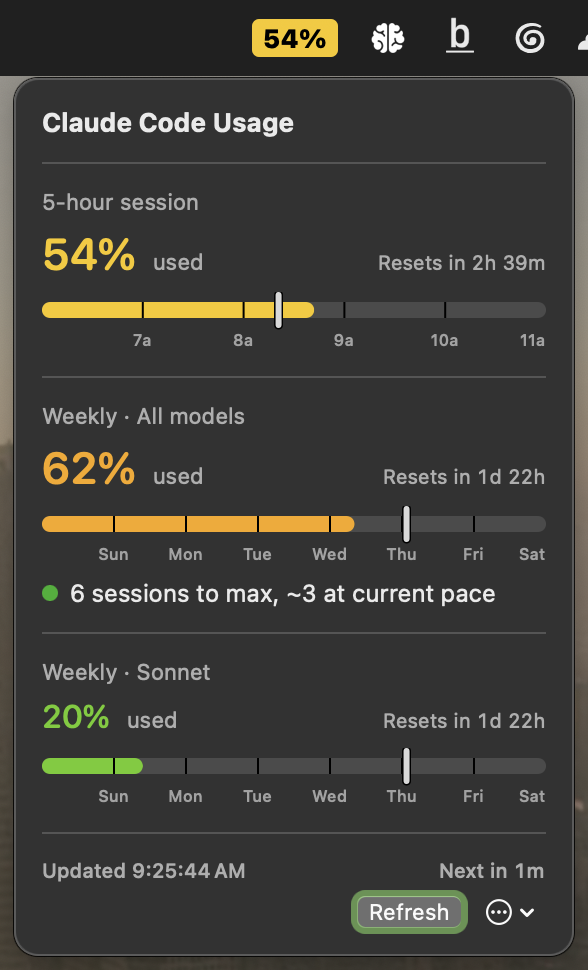
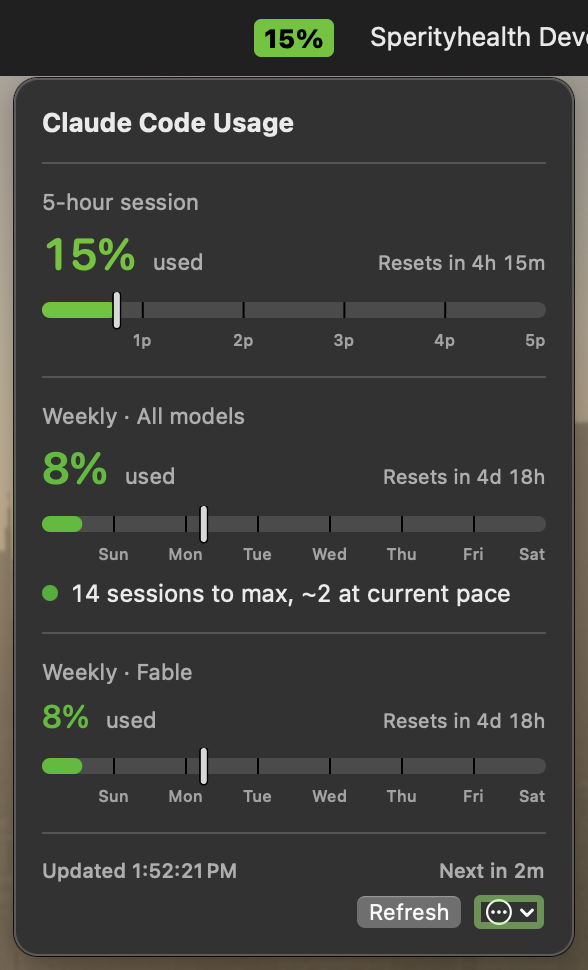
feat: Weekly · Fable meter sourced from the limits[] array
Add a per-model Fable weekly meter that renders the same way as the
Sonnet/Opus sections. The usage API no longer populates seven_day_opus/
seven_day_sonnet (both null); per-model weekly usage now lives in the
response's limits[] array as weekly_scoped entries carrying a
scope.model.display_name. Verified against the live account: Fable is
returned there at 8% while the seven_day_* model keys are null.

- UsageAPI: model the limits[] array (UsageLimit + nested Scope/Model)
  and add UsageResponse.scopedWeeklyWindow(modelDisplayName:), which
  surfaces the matching weekly_scoped entry as a synthetic UsageWindow
  so it flows through freshUtilization, the gauge, and the CLI report
  unchanged.
- UsageStore.sevenDayFable wires that helper to "Fable"; PopoverView
  renders a "Weekly · Fable" section (hidden when nil, like Sonnet/Opus).
- Cache: round-trip limits[] so the meter survives a cold launch.
- CLI: add seven_day_fable to the --json Report.
- Tests: LimitsTests covers the derivation (Fable match, ignoring
  session/weekly_all rows, unknown-model and missing-limits → nil, the
  freshness guard, and cache round-trip); update CLIIntegrationTests
  fixtures for the new limits parameter.
- Docs: FEATURE_MAP.md, CLAUDE.md, README.md; refresh Sonoma popover
  screenshots to show the Fable meter.

Claude-Session: https://claude.ai/code/session_01EoR4udmJi1QEKempqeJJAE

diff --git a/Tests/ClaudeUsageTests/LimitsTests.swift b/Tests/ClaudeUsageTests/LimitsTests.swift
@@ -1,0 +1,101 @@
+import XCTest
+@testable import ClaudeUsage
+
+/// Tests for the `limits[]` scoped-model derivation that powers the Fable
+/// weekly meter. The API exposes per-model weekly usage only through
+/// `limits[]` (`kind == "weekly_scoped"`, with `scope.model.display_name`) —
+/// the legacy `seven_day_sonnet`/`seven_day_opus` keys come back null — so
+/// `UsageResponse.scopedWeeklyWindow(modelDisplayName:)` reads it from there.
+/// Deterministic and headless: pure decode + derivation over fixed JSON.
+final class LimitsTests: XCTestCase {
+
+    /// Real-shaped response (trimmed) as observed 2026-07-07: scoped-model usage
+    /// lives in `limits[]`, the `seven_day_*` model keys are null, and a Fable
+    /// weekly_scoped entry sits at 8%.
+    private let fableJSON = """
+    {
+        "five_hour": { "utilization": 11, "resets_at": "2026-07-08T01:10:00.395969+00:00" },
+        "seven_day": { "utilization": 7, "resets_at": "2026-07-12T15:00:00.395995+00:00" },
+        "seven_day_opus": null,
+        "seven_day_sonnet": null,
+        "limits": [
+            {
+                "kind": "session",
+                "group": "session",
+                "percent": 11,
+                "resets_at": "2026-07-08T01:10:00.395969+00:00",
+                "scope": null,
+                "is_active": true
+            },
+            {
+                "kind": "weekly_all",
+                "group": "weekly",
+                "percent": 7,
+                "resets_at": "2026-07-12T15:00:00.395995+00:00",
+                "scope": null,
+                "is_active": false
+            },
+            {
+                "kind": "weekly_scoped",
+                "group": "weekly",
+                "percent": 8,
+                "resets_at": "2026-07-12T15:00:00.396269+00:00",
+                "scope": { "model": { "id": null, "display_name": "Fable" }, "surface": null },
+                "is_active": false
+            }
+        ]
+    }
+    """
+
+    private func decode(_ json: String) throws -> UsageResponse {
+        try JSONDecoder().decode(UsageResponse.self, from: Data(json.utf8))
+    }
+
+    func testFableWindowDerivedFromScopedLimit() throws {
+        let resp = try decode(fableJSON)
+        let fable = resp.scopedWeeklyWindow(modelDisplayName: "Fable")
+        XCTAssertEqual(fable?.utilization, 8)
+        XCTAssertEqual(fable?.resets_at, "2026-07-12T15:00:00.396269+00:00")
+    }
+
+    func testScopedLookupIgnoresSessionAndWeeklyAll() throws {
+        // "Fable" only matches the weekly_scoped entry (percent 8), never the
+        // session (11) or weekly_all (7) rows, which carry no model scope.
+        let resp = try decode(fableJSON)
+        XCTAssertEqual(resp.scopedWeeklyWindow(modelDisplayName: "Fable")?.utilization, 8)
+    }
+
+    func testUnknownModelReturnsNil() throws {
+        let resp = try decode(fableJSON)
+        XCTAssertNil(resp.scopedWeeklyWindow(modelDisplayName: "Sonnet"))
+    }
+
+    func testMissingLimitsArrayReturnsNil() throws {
+        let resp = try decode("""
+        { "five_hour": { "utilization": 5, "resets_at": "2026-07-08T01:10:00Z" } }
+        """)
+        XCTAssertNil(resp.limits)
+        XCTAssertNil(resp.scopedWeeklyWindow(modelDisplayName: "Fable"))
+    }
+
+    /// The derived window flows through `freshUtilization`, so a future
+    /// `resets_at` yields the percent and a past one is suppressed as stale —
+    /// same guard the legacy per-model windows use.
+    func testDerivedWindowRespectsFreshnessGuard() throws {
+        let resp = try decode(fableJSON)
+        let fable = resp.scopedWeeklyWindow(modelDisplayName: "Fable")
+        let before = ISO8601DateFormatter().date(from: "2026-07-01T00:00:00Z")!
+        let after = ISO8601DateFormatter().date(from: "2026-08-01T00:00:00Z")!
+        XCTAssertEqual(fable?.freshUtilization(now: before), 8)
+        XCTAssertNil(fable?.freshUtilization(now: after))
+    }
+
+    /// The cache must round-trip `limits[]` so the Fable meter survives a cold
+    /// launch (instant-on from disk) instead of vanishing until the first fetch.
+    func testLimitsSurviveCacheRoundTrip() throws {
+        let resp = try decode(fableJSON)
+        let encoded = try JSONEncoder().encode(resp)
+        let restored = try JSONDecoder().decode(UsageResponse.self, from: encoded)
+        XCTAssertEqual(restored.scopedWeeklyWindow(modelDisplayName: "Fable")?.utilization, 8)
+    }
+}

diff --git a/Tests/ClaudeUsageTests/CLIIntegrationTests.swift b/Tests/ClaudeUsageTests/CLIIntegrationTests.swift
@@ -94,7 +94,8 @@ final class CLIWindowReportTests: XCTestCase {
             seven_day: nil,
             seven_day_opus: nil,
             seven_day_sonnet: nil,
-            extra_usage: nil
+            extra_usage: nil,
+            limits: nil
         )
         let r = CLI.report(usage, fetchedAt: fixedNow, source: "api", error: nil, now: fixedNow)
         XCTAssertNil(r.five_hour)
@@ -112,7 +113,8 @@ final class CLIWindowReportTests: XCTestCase {
             seven_day: nil,
             seven_day_opus: nil,
             seven_day_sonnet: nil,
-            extra_usage: nil
+            extra_usage: nil,
+            limits: nil
         )
         let r = CLI.report(usage, fetchedAt: fixedNow, source: "api", error: nil, now: fixedNow)
         let wr = try! XCTUnwrap(r.five_hour)
@@ -138,7 +140,8 @@ final class CLIWindowReportTests: XCTestCase {
             seven_day: nil,
             seven_day_opus: nil,
             seven_day_sonnet: nil,
-            extra_usage: nil
+            extra_usage: nil,
+            limits: nil
         )
         let r = CLI.report(usage, fetchedAt: fixedNow, source: "cache", error: nil, now: fixedNow)
         let wr = try! XCTUnwrap(r.five_hour)
@@ -159,7 +162,8 @@ final class CLIWindowReportTests: XCTestCase {
             seven_day: nil,
             seven_day_opus: nil,
             seven_day_sonnet: nil,
-            extra_usage: nil
+            extra_usage: nil,
+            limits: nil
         )
         let r = CLI.report(usage, fetchedAt: fixedNow, source: "api", error: nil, now: fixedNow)
         let wr = try! XCTUnwrap(r.five_hour)
@@ -177,7 +181,8 @@ final class CLIWindowReportTests: XCTestCase {
             seven_day: nil,
             seven_day_opus: window, // plans that don't expose this return it empty
             seven_day_sonnet: nil,
-            extra_usage: nil
+            extra_usage: nil,
+            limits: nil
         )
         let r = CLI.report(usage, fetchedAt: fixedNow, source: "api", error: nil, now: fixedNow)
         XCTAssertNil(r.seven_day_opus, "Empty (nil util + nil resets_at) window should be omitted")
@@ -267,7 +272,8 @@ final class CLIReportIntegrationTests: XCTestCase {
             seven_day: nil,
             seven_day_opus: nil,
             seven_day_sonnet: nil,
-            extra_usage: nil
+            extra_usage: nil,
+            limits: nil
         )
         let report = CLI.report(
             usage,
@@ -288,7 +294,8 @@ final class CLIReportIntegrationTests: XCTestCase {
             seven_day: nil,
             seven_day_opus: nil,
             seven_day_sonnet: nil,
-            extra_usage: nil
+            extra_usage: nil,
+            limits: nil
         )
         let report = CLI.report(
             usage,
@@ -308,7 +315,8 @@ final class CLIReportIntegrationTests: XCTestCase {
             seven_day: nil,
             seven_day_opus: nil,
             seven_day_sonnet: nil,
-            extra_usage: nil
+            extra_usage: nil,
+            limits: nil
         )
         let slightlyFuture = fixedNow.addingTimeInterval(5)
         let report = CLI.report(
@@ -373,7 +381,8 @@ final class CLIReportIntegrationTests: XCTestCase {
             seven_day: nil,
             seven_day_opus: nil,
             seven_day_sonnet: nil,
-            extra_usage: nil
+            extra_usage: nil,
+            limits: nil
         )
         let report = CLI.report(
             usage,

diff --git a/Sources/ClaudeUsage/UsageAPI.swift b/Sources/ClaudeUsage/UsageAPI.swift
@@ -18,12 +18,46 @@ struct ExtraUsage: Decodable {
     let utilization: Double?
 }
 
+/// One entry of the response's `limits[]` array. The API surfaces per-model
+/// weekly limits here (`kind == "weekly_scoped"`, with `scope.model`), not via
+/// the older `seven_day_<model>` keys — those are now null. Codable so the
+/// cache can round-trip it; the synthesized encoder omits nil fields.
+struct UsageLimit: Codable {
+    let kind: String?
+    let group: String?
+    let percent: Double?
+    let resets_at: String?
+    let scope: Scope?
+
+    struct Scope: Codable {
+        let model: Model?
+
+        struct Model: Codable {
+            let id: String?
+            let display_name: String?
+        }
+    }
+}
+
 struct UsageResponse: Decodable {
     let five_hour: UsageWindow?
     let seven_day: UsageWindow?
     let seven_day_opus: UsageWindow?
     let seven_day_sonnet: UsageWindow?
     let extra_usage: ExtraUsage?
+    let limits: [UsageLimit]?
+
+    /// The weekly per-model limit for a given model display name (e.g.
+    /// "Fable"), surfaced as a `UsageWindow` so it renders through the same
+    /// path as the legacy `seven_day_*` windows. Sourced from `limits[]`, where
+    /// Anthropic moved scoped-model usage (the `seven_day_sonnet`/`_opus` keys
+    /// now come back null). Returns nil when no matching scoped limit is present.
+    func scopedWeeklyWindow(modelDisplayName: String) -> UsageWindow? {
+        guard let limit = limits?.first(where: {
+            $0.kind == "weekly_scoped" && $0.scope?.model?.display_name == modelDisplayName
+        }) else { return nil }
+        return UsageWindow(utilization: limit.percent, resets_at: limit.resets_at)
+    }
 }
 
 enum UsageAPIError: Error, LocalizedError {

diff --git a/Sources/ClaudeUsage/CLI.swift b/Sources/ClaudeUsage/CLI.swift
@@ -192,6 +192,7 @@ enum CLI {
         let seven_day: WindowReport?
         let seven_day_opus: WindowReport?
         let seven_day_sonnet: WindowReport?
+        let seven_day_fable: WindowReport?
         let extra_usage: ExtraUsageReport?
     }
 
@@ -218,6 +219,7 @@ enum CLI {
             seven_day: windowReport(usage.seven_day, duration: weeklyWindow, now: now),
             seven_day_opus: windowReport(usage.seven_day_opus, duration: weeklyWindow, now: now),
             seven_day_sonnet: windowReport(usage.seven_day_sonnet, duration: weeklyWindow, now: now),
+            seven_day_fable: windowReport(usage.scopedWeeklyWindow(modelDisplayName: "Fable"), duration: weeklyWindow, now: now),
             extra_usage: usage.extra_usage.map {
                 ExtraUsageReport(enabled: $0.is_enabled, used_percent: $0.utilization)
             }

diff --git a/Sources/ClaudeUsage/UsageCache.swift b/Sources/ClaudeUsage/UsageCache.swift
@@ -59,7 +59,7 @@ extension ExtraUsage: Encodable {
 }
 extension UsageResponse: Encodable {
     enum CodingKeys: String, CodingKey {
-        case five_hour, seven_day, seven_day_opus, seven_day_sonnet, extra_usage
+        case five_hour, seven_day, seven_day_opus, seven_day_sonnet, extra_usage, limits
     }
     func encode(to encoder: Encoder) throws {
         var c = encoder.container(keyedBy: CodingKeys.self)
@@ -68,5 +68,6 @@ extension UsageResponse: Encodable {
         try c.encodeIfPresent(seven_day_opus, forKey: .seven_day_opus)
         try c.encodeIfPresent(seven_day_sonnet, forKey: .seven_day_sonnet)
         try c.encodeIfPresent(extra_usage, forKey: .extra_usage)
+        try c.encodeIfPresent(limits, forKey: .limits)
     }
 }

diff --git a/Sources/ClaudeUsage/UsageStore.swift b/Sources/ClaudeUsage/UsageStore.swift
@@ -215,6 +215,12 @@ final class UsageStore: ObservableObject {
         lastSuccess?.response.seven_day_sonnet
     }
 
+    /// The weekly Fable window, derived from the response's `limits[]` scoped
+    /// entries (the API exposes Fable only there, not as a `seven_day_*` key).
+    var sevenDayFable: UsageWindow? {
+        lastSuccess?.response.scopedWeeklyWindow(modelDisplayName: "Fable")
+    }
+
     var lastUpdated: Date? {
         // The displayed numbers come from `lastSuccess`, so "Updated …" should
         // track the last successful fetch — not an error's timestamp.

diff --git a/Sources/ClaudeUsage/PopoverView.swift b/Sources/ClaudeUsage/PopoverView.swift
@@ -38,6 +38,10 @@ struct PopoverView: View {
                 Divider()
                 weeklyModelSection(title: "Weekly · Opus", window: opus)
             }
+            if let fable = store.sevenDayFable, fable.utilization != nil {
+                Divider()
+                weeklyModelSection(title: "Weekly · Fable", window: fable)
+            }
 
             Divider()
 

diff --git a/FEATURE_MAP.md b/FEATURE_MAP.md
@@ -1,6 +1,6 @@
 # ClaudeUsage — Feature Map
 
-ClaudeUsage is a single-target Swift Package macOS menubar app that displays how much of your Claude usage quota you've burned. It runs its own OAuth (authorization-code + PKCE) login against Anthropic, stores tokens in a dedicated `ClaudeUsage-credentials` Keychain item (isolated from Claude Code's own item so it can rotate tokens on a 429 without racing the `claude` CLI), polls `https://api.anthropic.com/api/oauth/usage` every 300 s, and renders the percentage used in the current 5-hour session in the menubar — color-coded along a green→red gradient. A SwiftUI popover breaks down the 5-hour, weekly, and per-model (Opus/Sonnet) windows with countdowns, time-elapsed ticks, and a weekly pacing analysis. A headless `--json` CLI mode serves the same data (cache-first) to other programs. An alert-only update check tells you when `main` has moved ahead of your build, and a single-instance lock keeps duplicate menubar items from stacking. The app stays out of the Dock (`LSUIElement` + `.accessory`) and is built/installed via stable self-signed code signing to keep its Keychain ACL sticky.
+ClaudeUsage is a single-target Swift Package macOS menubar app that displays how much of your Claude usage quota you've burned. It runs its own OAuth (authorization-code + PKCE) login against Anthropic, stores tokens in a dedicated `ClaudeUsage-credentials` Keychain item (isolated from Claude Code's own item so it can rotate tokens on a 429 without racing the `claude` CLI), polls `https://api.anthropic.com/api/oauth/usage` every 300 s, and renders the percentage used in the current 5-hour session in the menubar — color-coded along a green→red gradient. A SwiftUI popover breaks down the 5-hour, weekly, and per-model (Opus/Sonnet/Fable) windows with countdowns, time-elapsed ticks, and a weekly pacing analysis. A headless `--json` CLI mode serves the same data (cache-first) to other programs. An alert-only update check tells you when `main` has moved ahead of your build, and a single-instance lock keeps duplicate menubar items from stacking. The app stays out of the Dock (`LSUIElement` + `.accessory`) and is built/installed via stable self-signed code signing to keep its Keychain ACL sticky.
 
 ## Feature areas
 
@@ -20,7 +20,8 @@ ClaudeUsage is a single-target Swift Package macOS menubar app that displays how
 - **User-agent construction** — `UserAgent.string` lazily builds `claude-cli/<CFBundleShortVersionString> (ClaudeUsage menubar)`; the `claude-cli` prefix is required because Cloudflare's WAF returns 403 for the default `URLSession` UA. Falls back to `0.0.0` when no bundle version (e.g. `swift run`). `Sources/ClaudeUsage/UserAgent.swift`
 - **Cloudflare `_cfuvid` cookie persistence** — `CookieJar` persists the CF session cookie across launches via `UserDefaults` (`anthropic._cfuvid.v1.value`/`.savedAt`); `restore()` re-injects it (synthetic far-future expiry, skips cookies older than 24 h) before any `URLSession` use, and `captureFromSharedStorage()` recaptures rotated values after each success. `Sources/ClaudeUsage/CookieJar.swift`
 - **On-disk usage cache** — `UsageCache` persists the last successful `UsageResponse` as a JSON `Envelope{response, fetchedAt}` (ISO8601) at `~/Library/Application Support/ClaudeUsage/last_usage.json`; `load()` returns `(response, fetchedAt)?`, `save(_:at:)` writes atomically. Used by the menubar for instant-on data and by `--json` mode as the cache-first layer. `Sources/ClaudeUsage/UsageCache.swift`
-- **UsageResponse and window model** — decodes `five_hour`, `seven_day`, `seven_day_opus`, `seven_day_sonnet` (optional `UsageWindow`) and `extra_usage` (optional `ExtraUsage`); `UsageWindow.freshUtilization(now:)` returns utilization only when `resets_at` is in the future, guarding against stale cached data. `Encodable` conformances added for cache round-trips. `Sources/ClaudeUsage/UsageAPI.swift`, `Sources/ClaudeUsage/UsageCache.swift`
+- **UsageResponse and window model** — decodes `five_hour`, `seven_day`, `seven_day_opus`, `seven_day_sonnet` (optional `UsageWindow`), `extra_usage` (optional `ExtraUsage`), and the `limits` array (optional `[UsageLimit]`); `UsageWindow.freshUtilization(now:)` returns utilization only when `resets_at` is in the future, guarding against stale cached data. `Encodable` conformances added for cache round-trips (including `limits`). `Sources/ClaudeUsage/UsageAPI.swift`, `Sources/ClaudeUsage/UsageCache.swift`
+- **Scoped per-model windows via `limits[]`** — the API moved per-model weekly usage into the `limits` array (each entry has `kind`/`group`/`percent`/`resets_at`/`scope`); the `seven_day_opus`/`seven_day_sonnet` keys now come back null. `UsageResponse.scopedWeeklyWindow(modelDisplayName:)` finds the `kind == "weekly_scoped"` entry whose `scope.model.display_name` matches (e.g. "Fable") and surfaces it as a synthetic `UsageWindow`, so it renders and reports through the same path as the legacy per-model windows. `UsageStore.sevenDayFable` wires this to "Fable". `Sources/ClaudeUsage/UsageAPI.swift`, `Sources/ClaudeUsage/UsageStore.swift`
 
 ### App Core & State
 - **App entry and dispatch** — `ClaudeUsageMain.main()` restores the `_cfuvid` cookie via `CookieJar.restore()`, then on `--json` calls `CLI.runAndExit()` (never touching `NSApplication`); otherwise creates the shared `NSApplication`, sets `.accessory` policy (no Dock icon), assigns `AppDelegate`, and runs the loop. `Sources/ClaudeUsage/App.swift`
@@ -33,7 +34,7 @@ ClaudeUsage is a single-target Swift Package macOS menubar app that displays how
 - **Duration and percentage formatting helpers** — `UsageFormat` provides `parseResetsAt()` (ISO8601 with/without fractional seconds), `compactDuration()` (h/m for the 5-hour window), `coarseDuration()` (d/h/m for 7-day windows), and `percentString()` (round Double to integer + `%`). `Sources/ClaudeUsage/UsageStore.swift`
 
 ### UI
-- **SwiftUI popover layout** — `PopoverView` renders a 280pt VStack gated by connection state: header + loading spinner, 5-hour section, weekly all-models section (with pace indicator), optional per-model Sonnet/Opus sections (hidden when utilization is nil), and a footer. Percentages colored via `UsageColor`, times via `UsageFormat`, with a 1 s timer driving live countdowns. `Sources/ClaudeUsage/PopoverView.swift`
+- **SwiftUI popover layout** — `PopoverView` renders a 280pt VStack gated by connection state: header + loading spinner, 5-hour section, weekly all-models section (with pace indicator), optional per-model Sonnet/Opus/Fable sections (hidden when utilization is nil; Fable is sourced from `limits[]` via `store.sevenDayFable`), and a footer. Percentages colored via `UsageColor`, times via `UsageFormat`, with a 1 s timer driving live countdowns. `Sources/ClaudeUsage/PopoverView.swift`
 - **Multi-stop HSL color gradient interpolation** — `UsageColor` maps utilization (0–100) by linearly interpolating HSL across five stops: green (0%), yellow/amber (50%), orange (70%), red (90%), dark red (100%); the yellow stop differs light vs dark for legibility, returning a dynamic `NSColor` that re-resolves on appearance change. `Sources/ClaudeUsage/UsageColor.swift`
 - **Canvas gauge bar with time-elapsed tick and grid labels** — `UsageGauge` draws a rounded bar (fill + track), an optional vertical tick at the clock's elapsed fraction (overhangs 5pt, white-on-halo in dark mode), and optional grid dividers with hour-abbreviation or weekday labels; fill past the tick = burning faster than the clock. `Sources/ClaudeUsage/UsageGauge.swift`
 - **Weekly pacing analysis** — `Pace.swift` computes a `WeeklyPace` (heuristic: 7% per fully-used 5-hour session, ~14 sessions/week = 100%): `PaceCalculator.compute` projects sessions-to-max (`ceil(remaining%/7%)`) and sessions at current pace (suppressed as TBD in the first 5% of the window); `verdict` classifies maxed/tooEarly/onTrack/close/leavingOnTable and `.color` maps slack (clamped −3..+3) onto the gradient. Rendered as a colored dot + summary under the weekly section. `Sources/ClaudeUsage/Pace.swift`, `Sources/ClaudeUsage/PopoverView.swift`
@@ -42,7 +43,7 @@ ClaudeUsage is a single-target Swift Package macOS menubar app that displays how
 
 ### CLI
 - **Headless `--json` mode** — `CLI.parse()` detects `--json` and returns `Options` (maxAge default 360 s, `fresh` flag). `CLI.run()` is cache-first: emits a `Report` with `source="cache"` (exit 0) when the cache is younger than maxAge; otherwise `fetchFromAPI()` (same credential/refresh path as `UsageStore`, minus cooldown state), saves the cache, and emits `source="api"`. Exits 2 on not-connected; on fetch error emits stale cache with an `error` field (exit 3) or writes error JSON to stderr (exit 1). `UsageAPI.logHandle` is redirected to stderr to keep stdout pure JSON. `Sources/ClaudeUsage/CLI.swift`
-- **CLI JSON report schema** — `CLI.Report` (Encodable): `source` (`cache`|`api`), `stale`, `error`, `fetched_at` (ISO8601), `age_seconds`, and per-window structs (`five_hour`, `seven_day`, `seven_day_opus`, `seven_day_sonnet`, `extra_usage`). `CLI.WindowReport` carries `active`, `used_percent`, `remaining_percent`, `resets_at`, `window_seconds`, `elapsed_seconds`, `remaining_seconds`; between-session windows emit `active=false` with 0%/100% and nil time fields. Output is pretty-printed, sorted keys, unescaped slashes. `Sources/ClaudeUsage/CLI.swift`
+- **CLI JSON report schema** — `CLI.Report` (Encodable): `source` (`cache`|`api`), `stale`, `error`, `fetched_at` (ISO8601), `age_seconds`, and per-window structs (`five_hour`, `seven_day`, `seven_day_opus`, `seven_day_sonnet`, `seven_day_fable` — the last derived from `limits[]` — `extra_usage`). `CLI.WindowReport` carries `active`, `used_percent`, `remaining_percent`, `resets_at`, `window_seconds`, `elapsed_seconds`, `remaining_seconds`; between-session windows emit `active=false` with 0%/100% and nil time fields. Output is pretty-printed, sorted keys, unescaped slashes. `Sources/ClaudeUsage/CLI.swift`
 
 ### Updates & Lifecycle
 - **Alert-only update check** — `UpdateChecker` (`@MainActor ObservableObject`) compares the commit `build-app.sh` bakes into `Info.plist` as `GitCommit` against `jakeonrails/claude-usage/main` via GitHub's `GET /repos/.../compare/<build>...main` API, every 5 min and on Refresh. It publishes `available` (an `Available{aheadBy}`) only when `status == "ahead"` with `ahead_by > 0` — so dev builds (blank `GitCommit`, check disabled) and feature-branch builds (`diverged`/`behind`) never show a false alert. The pure decision is `evaluate(status:aheadBy:)` and the commit gate is `normalizedCommit(_:)`. It never runs git or touches a checkout. `PopoverView` shows a blue ↓ button whose `NSAlert` offers `UpdateChecker.updateCommand` (`git pull --ff-only && ./install.sh`) with a Copy button. `Sources/ClaudeUsage/UpdateChecker.swift`, `Sources/ClaudeUsage/PopoverView.swift`
@@ -65,7 +66,7 @@ ClaudeUsage is a single-target Swift Package macOS menubar app that displays how
 | `Keychain` / `KeychainError` | Legacy Claude Code reader (shellout); shared error type reused by `AppCredentials` | `Sources/ClaudeUsage/Keychain.swift` |
 | `ConnectAccountView` | Two-step browser-open + paste-code connect flow | `Sources/ClaudeUsage/ConnectAccountView.swift` |
 | `UsageAPI` | `fetch(accessToken:)`, `logHandle`, `lastRateLimit`; required beta header + `claude-cli` UA | `Sources/ClaudeUsage/UsageAPI.swift` |
-| `UsageResponse` / `UsageWindow` / `ExtraUsage` | API response model; `freshUtilization(now:)` staleness guard | `Sources/ClaudeUsage/UsageAPI.swift`, `Sources/ClaudeUsage/UsageCache.swift` |
+| `UsageResponse` / `UsageWindow` / `ExtraUsage` / `UsageLimit` | API response model; `freshUtilization(now:)` staleness guard; `scopedWeeklyWindow(modelDisplayName:)` derives per-model windows from `limits[]` | `Sources/ClaudeUsage/UsageAPI.swift`, `Sources/ClaudeUsage/UsageCache.swift` |
 | `UsageAPIError` / `RateLimitInfo` | Fetch error enum; parsed `anthropic-ratelimit-*` headers | `Sources/ClaudeUsage/UsageAPI.swift` |
 | `UserAgent` | Lazy `claude-cli/<version>` UA string | `Sources/ClaudeUsage/UserAgent.swift` |
 | `CookieJar` | `restore()` / `captureFromSharedStorage()` for `_cfuvid` persistence | `Sources/ClaudeUsage/CookieJar.swift` |
@@ -101,6 +102,7 @@ ClaudeUsage is a single-target Swift Package macOS menubar app that displays how
 - **`AppCredentials` JSON parse** — `load()` over known JSON; assert the three `expiresAt` type branches (NSNumber/Int64/Int).
 - **`UsageWindow.freshUtilization(now:)`** — pure staleness guard; cover expired/future/nil-resets/nil-utilization with a controllable `now`.
 - **`UsageCache` round-trip** — `save`→`load` fidelity including optional fields and ISO8601 dates; protects the cache-first CLI path.
+- **`UsageResponse.scopedWeeklyWindow(modelDisplayName:)`** — the `limits[]` → per-model `UsageWindow` derivation behind the Fable meter; cover the Fable weekly_scoped match, ignoring session/weekly_all rows, unknown-model and missing-`limits` → nil, the `freshUtilization` guard on the derived window, and cache round-trip of `limits`. *(covered in `LimitsTests`)*
 - **`CookieJar` staleness check** — the 86400 s `maxAge` guard in `restore()` is pure date arithmetic; protects against re-injecting stale `_cfuvid`.
 - **`parseRateLimit` + 429 retry-after resolution** — header parsing plus the three-way priority (`Retry-After` → `anthropic-ratelimit-requests-reset` → 60 s) and `max(15, …)` floor; pure arithmetic over a stubbed response.
 - **`UserAgent.string` format** — assert it starts with `claude-cli/` and contains `(ClaudeUsage menubar)`; a regression here causes Cloudflare 403s.

diff --git a/CLAUDE.md b/CLAUDE.md
@@ -66,6 +66,6 @@ To create the cert: Keychain Access → Certificate Assistant → Create a Certi
 - `LSUIElement=true` in `Info.plist` (built inline in `build-app.sh`) plus `setActivationPolicy(.accessory)` keep the app out of the Dock. Don't remove either.
 - The 5-hour and weekly limits are **server-enforced by Anthropic**; we display the `utilization` percentage the API returns. Do not try to compute windows from local JSONL.
 - If `AppCredentials.load()` returns nil (never connected, or the item was cleared), `UsageStore.needsConnection` flips true and the popover shows `ConnectAccountView` instead of erroring. Other keychain failures surface in the footer — don't crash.
-- `UsageResponse` decodes `seven_day_opus` / `seven_day_sonnet` optionally because not all plans expose them; the popover hides those sections when `utilization == nil`.
+- `UsageResponse` decodes `seven_day_opus` / `seven_day_sonnet` optionally because not all plans expose them; the popover hides those sections when `utilization == nil`. Per-model weekly usage has since moved into the response's `limits[]` array (each entry `{kind, group, percent, resets_at, scope}`), and those two keys now come back null. `UsageResponse.scopedWeeklyWindow(modelDisplayName:)` reads a `kind == "weekly_scoped"` entry (matched by `scope.model.display_name`) back into a synthetic `UsageWindow`; `UsageStore.sevenDayFable` uses it to render the **Weekly · Fable** section the same way as Sonnet/Opus. If you add another scoped model (e.g. Sonnet-via-`limits`), reuse this helper rather than re-reading the dead `seven_day_*` keys.
 - **Keep `FEATURE_MAP.md` in sync as you add, change, or remove features.** It's the human-readable map of what the app does (feature areas, key types, the launch→auth→fetch→render flow, and unit-test targets). When a change adds a feature, alters an existing one's behavior, or drops one, update the matching entry — and the key-types table / test-target list if those shifted — in the same change. A stale feature map is worse than none.
 - **Before pushing any change that affects the UI, recapture screenshots and update `README.md`.** The popover renders differently per macOS version (window styling differs on Tahoe 26+ vs Sonoma 14 / Sequoia 15), so the README keeps a set per OS family in `docs/` (`Light.png`/`Dark.png` = Tahoe+, `Light-Sonoma.png`/`Dark-Sonoma.png` = Sonoma/Sequoia). Use `scripts/screenshot-menu.sh` to capture the activated menu (it hides other windows, opens the popover, and grabs it; needs Accessibility + Screen Recording permission for the terminal/app running it). You can only capture the OS family you're running on, so a single machine usually can't refresh both sets — the `Light.png`/`Dark.png` Tahoe pair currently lags the Sonoma pair (captured pre–menubar-color-block) and needs a Tahoe machine to recapture. If you make a graphical change on Tahoe, recapture the Tahoe pair and update the README parenthetical noting they're current; likewise refresh the Sonoma pair from a Sonoma/Sequoia machine. Whichever set you can't capture, leave a parenthetical near that image in `README.md` saying it's stale and which OS is needed.

diff --git a/README.md b/README.md
@@ -68,7 +68,8 @@ On each refresh it then:
 
 1. Reads the OAuth token from `ClaudeUsage-credentials`.
 2. Calls `https://api.anthropic.com/api/oauth/usage` with that token.
-3. Parses `five_hour`, `seven_day`, `seven_day_opus`, `seven_day_sonnet`.
+3. Parses `five_hour`, `seven_day`, `seven_day_opus`, `seven_day_sonnet`, and
+   per-model scoped windows from `limits[]` (e.g. Fable).
 
 No separate Anthropic developer registration is needed — the OAuth flow reuses
 the same public `client_id` and hosted redirect the `claude` CLI itself uses.
@@ -99,6 +100,7 @@ elapsed/remaining per window — without doing their own OAuth:
   },
   "seven_day": { "...": "same shape" },
   "seven_day_sonnet": { "...": "same shape, present only on plans that report it" },
+  "seven_day_fable": { "...": "same shape, derived from the limits[] scoped-model entry" },
   "extra_usage": { "enabled": false }
 }
 ```
